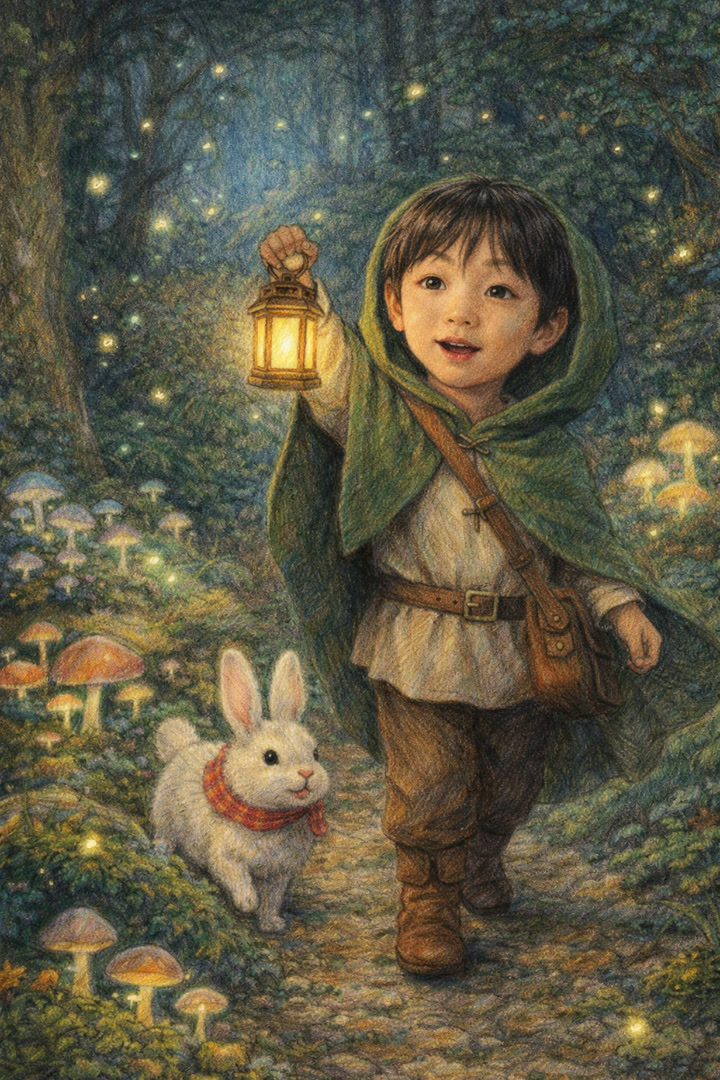
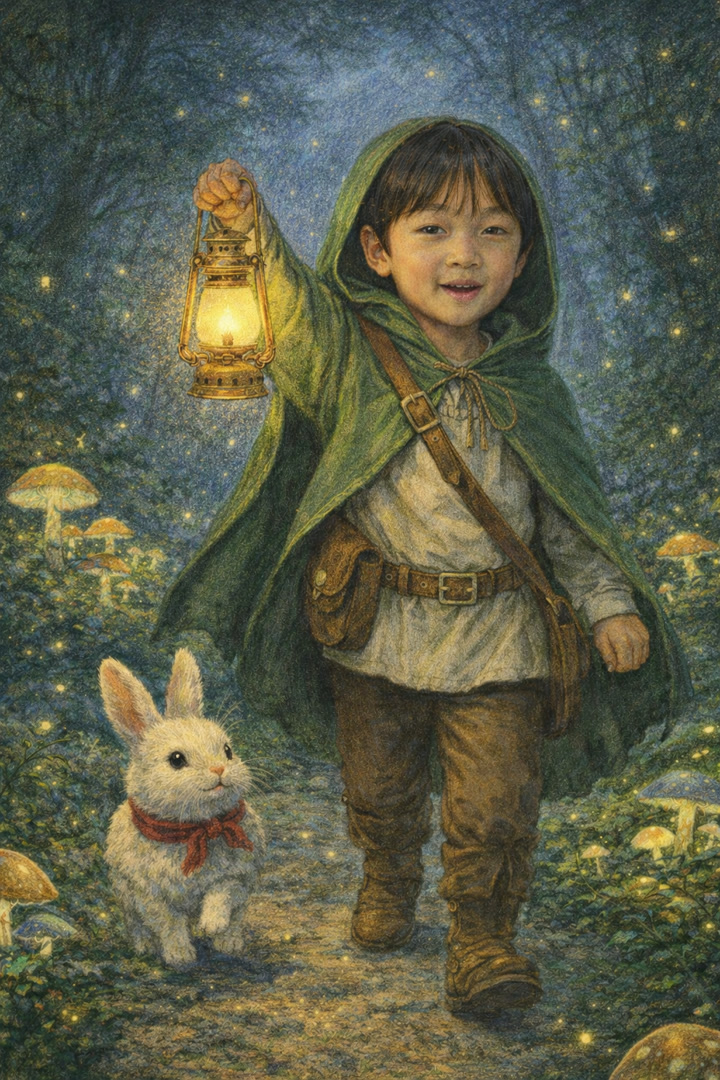
샘플에 연령대 비교 추가 + 그림체는 같은 그림에 재료만 바꾸기
- 나이 비교 4장(1·4·8·10세): 같은 사진·같은 장면(구름 위)에 나이만 바꿔
  체형이 어떻게 달라지는지 눈으로 보여준다.
- 그림체 3장 재생성: 사진에서 따로 그리면 구도·포즈까지 달라져 싸구려로
  보인다. 사실적 그림 1장을 원본으로 두고 재료만 바꿔 다시 칠했다.

diff --git a/app/samples/page.tsx b/app/samples/page.tsx
@@ -2,7 +2,7 @@
 import type { Metadata } from "next";
 import Image from "next/image";
 import Link from "next/link";
-import { SAMPLES, SAMPLE_H, SAMPLE_W, STYLE_SAMPLES } from "@/lib/samples";
+import { AGE_SAMPLES, SAMPLES, SAMPLE_H, SAMPLE_W, STYLE_SAMPLES } from "@/lib/samples";
 import { SITE_ORIGIN } from "@/lib/sharebook";
 
 const TITLE = "동화책 샘플 보기 · 키즈북";
@@ -78,8 +78,34 @@ export default function SamplesPage() {
       </section>
 
       <section className="style-compare">
+        <h2>나이에 맞게 그려드려요</h2>
+        <p className="hint">
+          같은 사진, 같은 장면입니다. 입력한 나이만 바꿔 그렸어요.
+          <br />
+          아기는 아기답게, 형아는 형아답게 — 체형과 얼굴이 나이를 따라갑니다.
+        </p>
+        <div className="style-row">
+          {AGE_SAMPLES.map((a) => (
+            <figure key={a.id}>
+              <Image
+                src={`/samples/${a.id}.jpg`}
+                alt={`${a.label} 아이로 그린 동화 삽화 샘플`}
+                width={SAMPLE_W}
+                height={SAMPLE_H}
+                sizes="(max-width: 700px) 45vw, 240px"
+              />
+              <figcaption>
+                <b>{a.label}</b>
+                {a.sub}
+              </figcaption>
+            </figure>
+          ))}
+        </div>
+      </section>
+
+      <section className="style-compare">
         <h2>그림체를 고를 수 있어요</h2>
-        <p className="hint">같은 아이, 같은 장면을 그림체만 바꿔 그렸습니다.</p>
+        <p className="hint">같은 그림에 재료만 바꿔 칠했습니다. 구도는 그대로예요.</p>
         <div className="style-row">
           {STYLE_SAMPLES.map((s) => (
             <figure key={s.id}>

diff --git a/lib/samples.ts b/lib/samples.ts
@@ -20,7 +20,20 @@ export const SAMPLES: Sample[] = [
 export const SAMPLE_W = 720;
 export const SAMPLE_H = 1080;
 
+// 나이 비교 — 같은 아이·같은 장면(구름 위)을 입력 나이만 바꿔 그린 것.
+// 나이에 따라 등신·체형·얼굴 성숙도가 달라진다는 걸 눈으로 보여준다 (2026-08-13).
+export type AgeSample = { id: string; label: string; sub: string };
+
+export const AGE_SAMPLES: AgeSample[] = [
+  { id: "age-1", label: "1세", sub: "아기 체형 · 4등신" },
+  { id: "age-4", label: "4세", sub: "유아 체형 · 5등신" },
+  { id: "age-8", label: "8세", sub: "초등 저학년 · 6등신" },
+  { id: "age-10", label: "10세", sub: "초등 고학년 · 6등신 이상" },
+];
+
 // 그림체 비교 — 같은 아이·같은 장면(마법의 숲)을 그림체만 바꿔 그린 것.
+// ⚠사진에서 4장을 따로 그리면 구도·포즈까지 달라져 싸구려로 보인다.
+// 사실적 그림 1장을 원본으로 두고 "같은 그림을 재료만 바꿔 다시 칠하기"로 만든다.
 export type StyleSample = { id: string; label: string; sub: string };
 
 export const STYLE_SAMPLES: StyleSample[] = [
